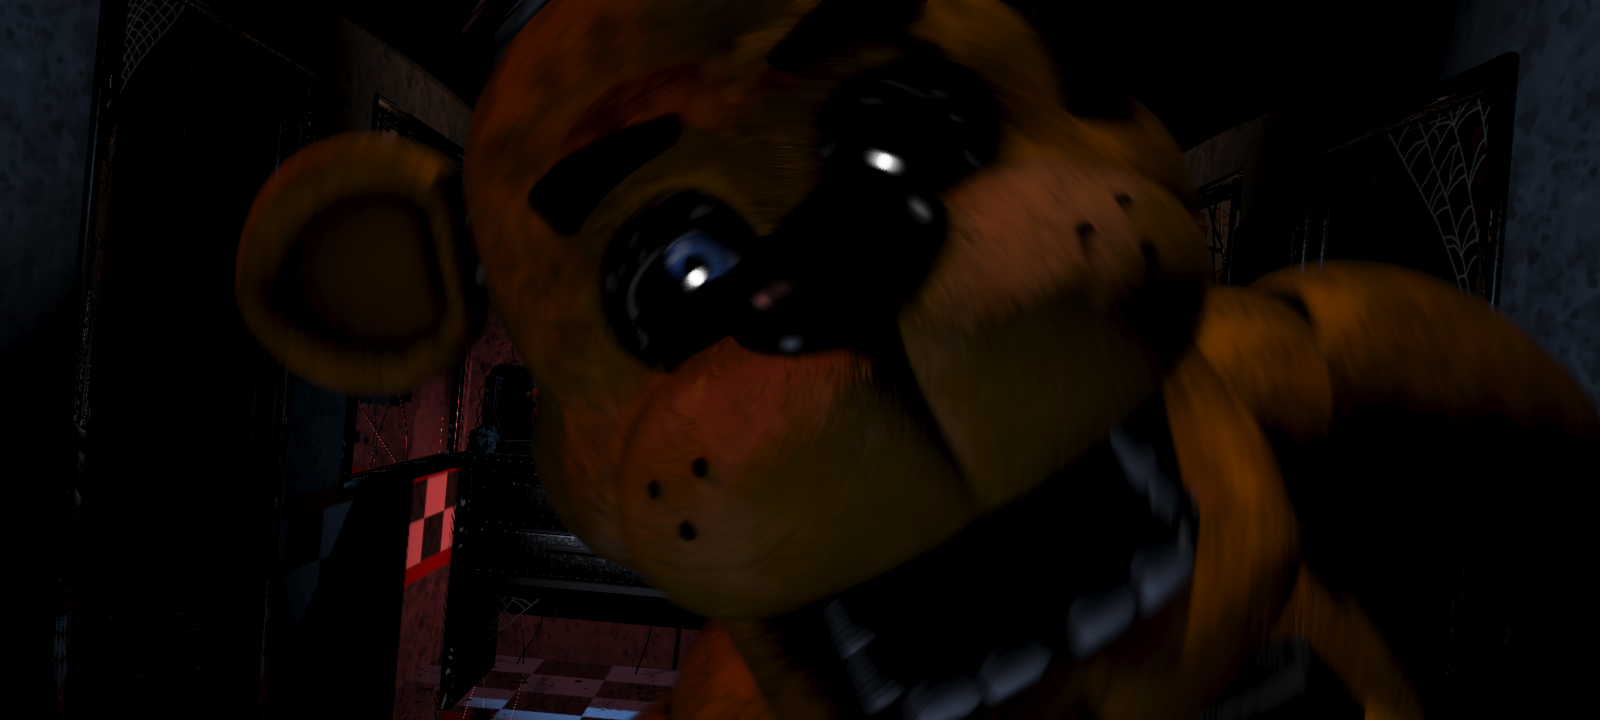
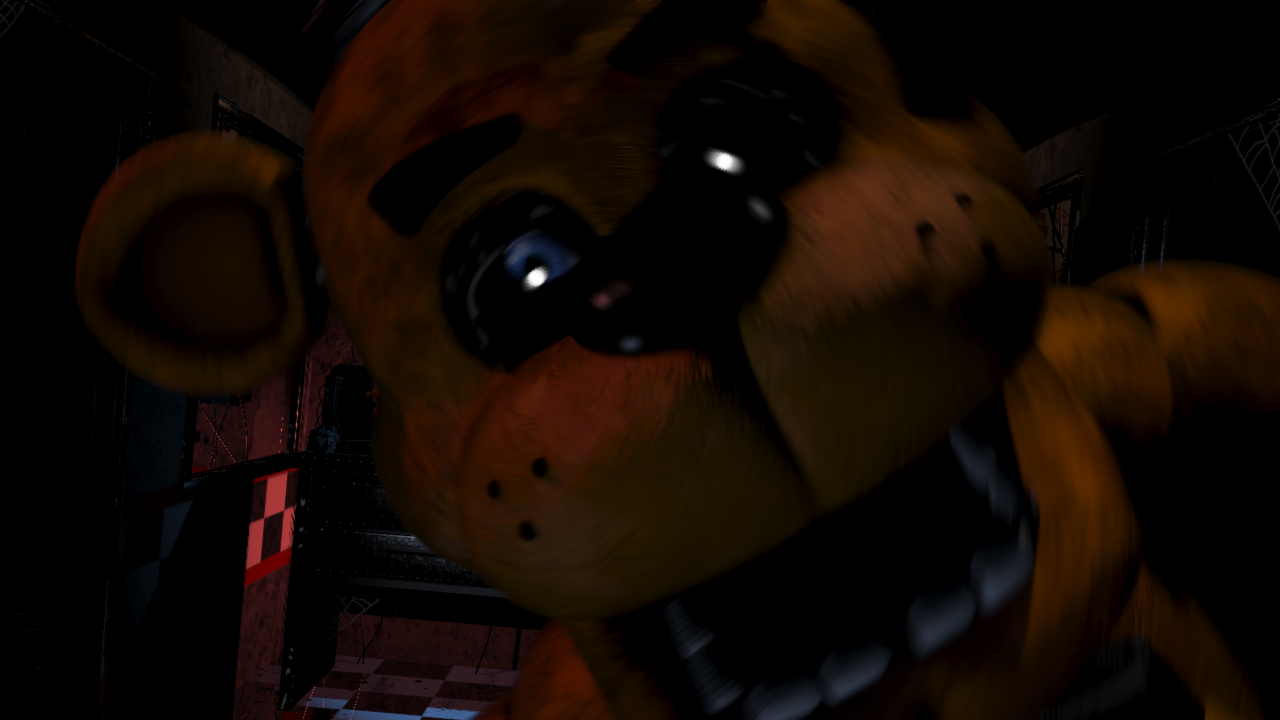
commit

diff --git a/Code/JavaScript/Freddy Fazbear.js b/Code/JavaScript/Freddy Fazbear.js
@@ -375,7 +375,7 @@ setInterval(() => {
     {
         freddyMove();
     }
-},  3000);
+},  10000);
 
 setInterval(() => {
     if (freddy_door == true)
@@ -410,15 +410,16 @@ function freddyDoorFunction()
         {
             jumpscare.play();
             getEle("jumpscare1").className = "jumpscare";
+            getEle("jumpscare1").requestFullscreen();
             //getEle("jumpscare").src = "../Assets/Freddy/jumpscare.gif";
             setTimeout(() => {
                 window.location.href = "https://www.youtube.com/watch?v=grd-K33tOSM";
-            }, 1500);
+            }, 1300);
             return
         }
         else
         {
             return
         }
-    }, 1400);
+    }, 2000);
 }

diff --git a/Code/index.html b/Code/index.html
@@ -86,7 +86,7 @@
 
     <img src="../Assets/vader.png" class="freddyNose" onclick="freddyNoseSound();">
 
-    <img id="jumpscare1" class="hidden" src="../Assets/Freddy/jumpscare.gif">
+    <img id="jumpscare1" class="hidden" src="../Assets/Freddy/f_jumpscarew.png">
     <img id="jumpscare2" class="hidden" src="../Assets/kafka.png">
     <img id="jumpscare3" class="hidden" src="../Assets/Bonnie/jumpscare.gif">
 
